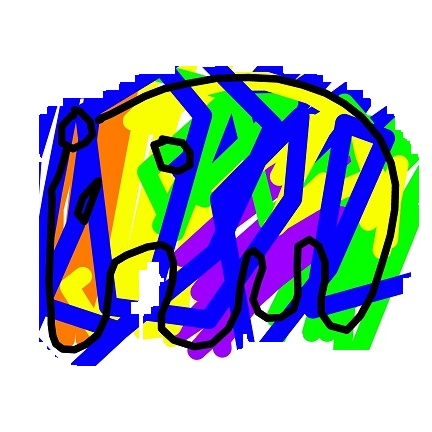
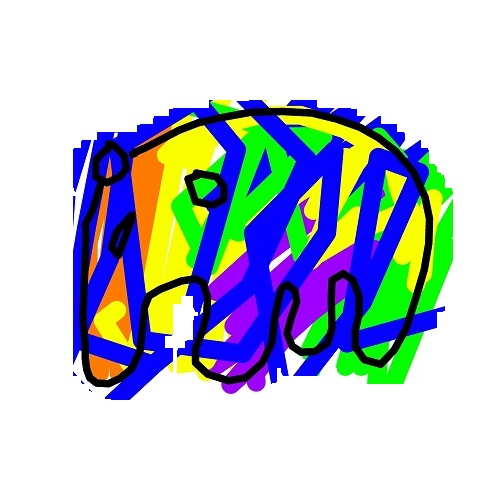
#done #feat(similarCheck): 사진의 가로와 세로 길이500x500에  맞추기

diff --git a/backend/SimilarCheck/app.py b/backend/SimilarCheck/app.py
@@ -77,17 +77,29 @@ def borderExtractionTest(roomId, originalPath, newPath):
     # result_image에서 mask 영역의 검은색 부분에 해당하는 영역에서만 픽셀을 하얀색으로 변경
     result_image[black_pixels_in_mask] = [255, 255, 255]
 
+    # 이미지의 높이와 너비 가져오기
     height, width = result_image.shape[:2]
-    if width > height:
-        # 이미지를 세로 길이에 맞게 자르기
-        start_col = (width - height) // 2
-        end_col = start_col + height
-        result_image = result_image[:, start_col:end_col]
-    elif height > width:
-        # 이미지를 가로 길이에 맞게 자르기
-        start_row = (height - width) // 2
-        end_row = start_row + width
-        result_image = result_image[start_row:end_row, :]
+
+    # 이미지를 중앙을 기준으로 500x500으로 자르기
+    start_row = max(0, int((height - 500) / 2))
+    end_row = min(height, start_row + 500)
+    start_col = max(0, int((width - 500) / 2))
+    end_col = min(width, start_col + 500)
+
+    # 이미지를 500x500으로 자르거나 확장하기
+    result_image = result_image[start_row:end_row, start_col:end_col]
+
+    if result_image.shape[0] < 500:  # 세로가 500보다 작으면
+        pad_top = (500 - result_image.shape[0]) // 2
+        pad_bottom = 500 - result_image.shape[0] - pad_top
+        result_image = cv2.copyMakeBorder(result_image, pad_top, pad_bottom, 0, 0, cv2.BORDER_CONSTANT,
+                                          value=(255, 255, 255))
+
+    if result_image.shape[1] < 500:  # 가로가 500보다 작으면
+        pad_left = (500 - result_image.shape[1]) // 2
+        pad_right = 500 - result_image.shape[1] - pad_left
+        result_image = cv2.copyMakeBorder(result_image, 0, 0, pad_left, pad_right, cv2.BORDER_CONSTANT,
+                                          value=(255, 255, 255))
 
     # 결과 이미지를 저장
     cv2.imwrite('./borderImages/'+roomId+'output.jpg', result_image)
